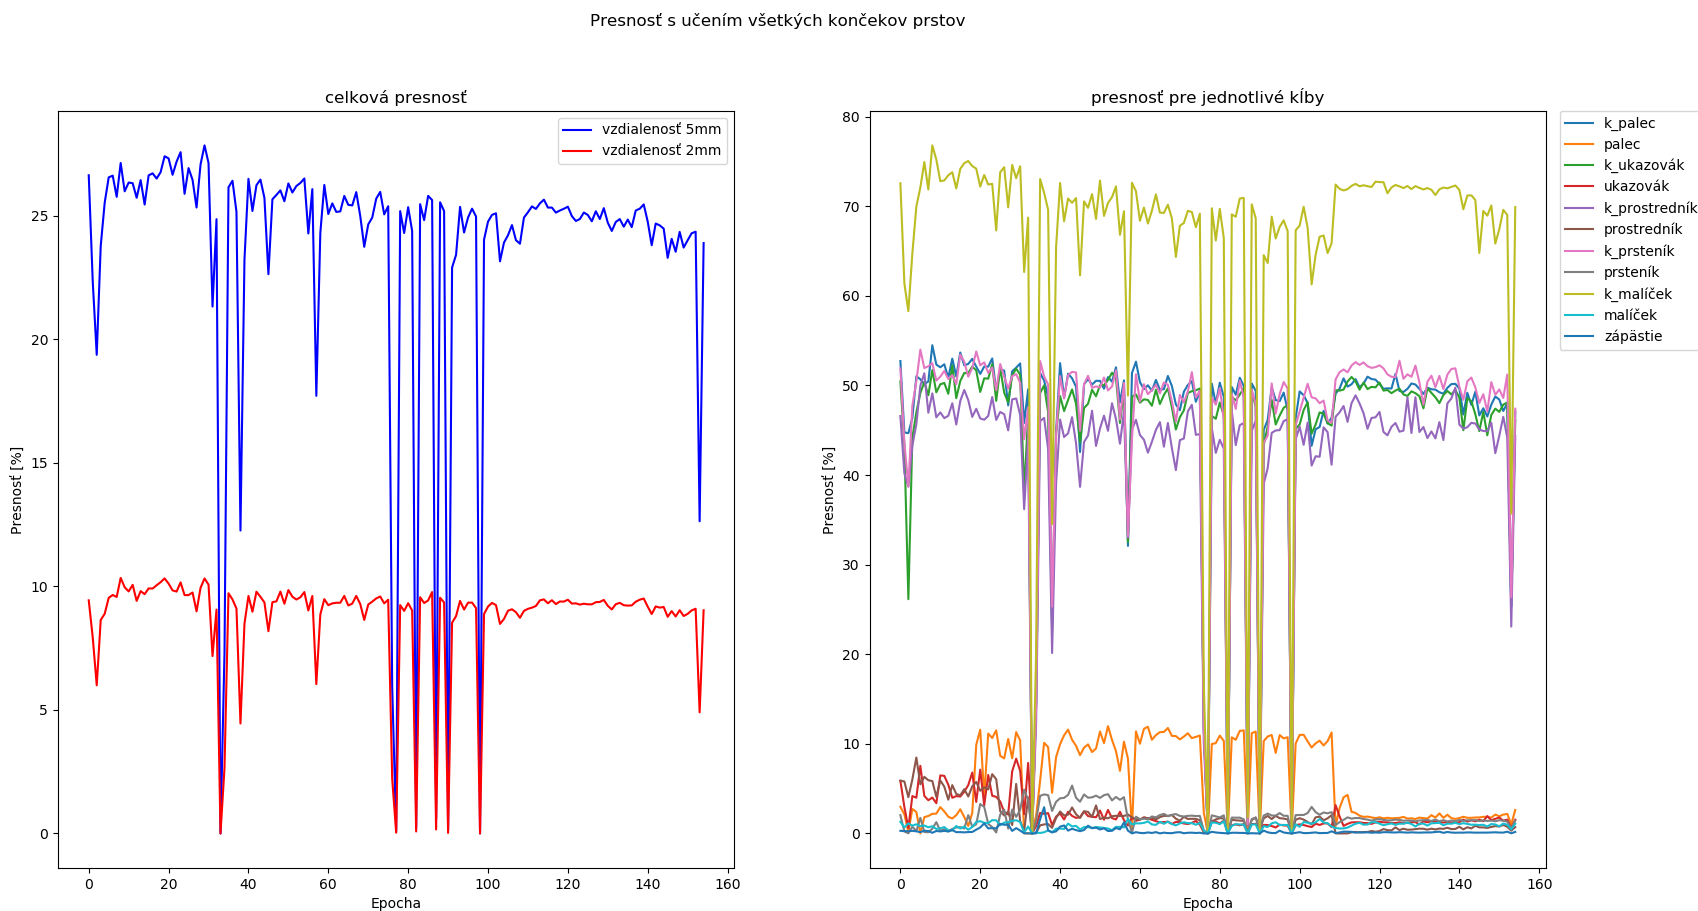
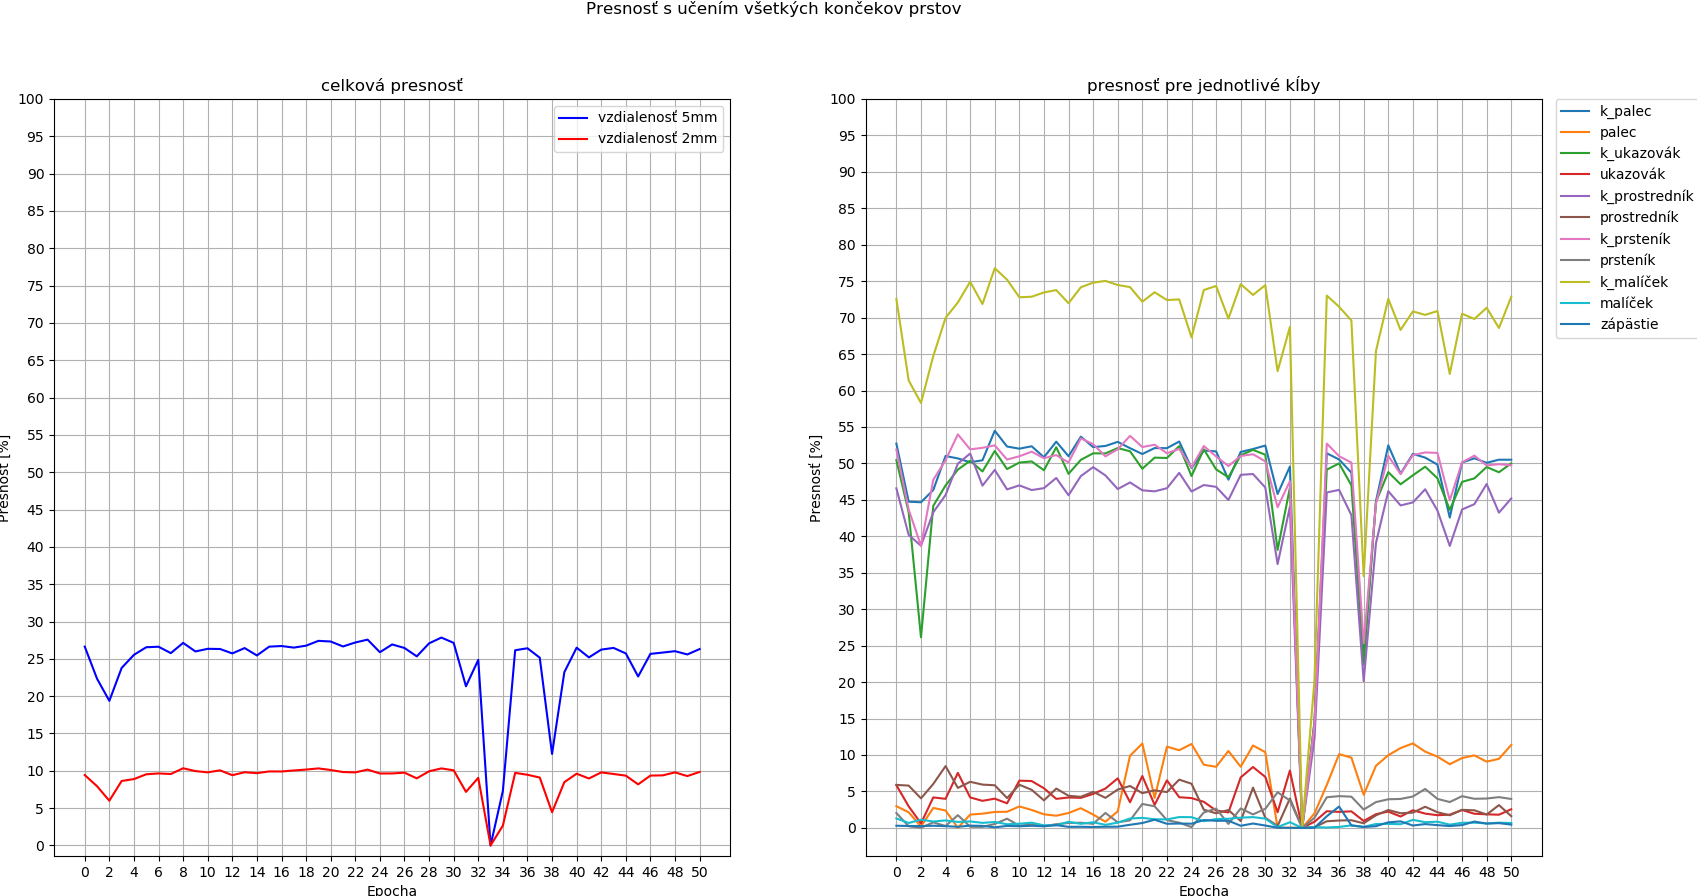
grid in graphs, annotator shape verified save

diff --git a/codes/val_graph_generator/val_reader.py b/codes/val_graph_generator/val_reader.py
@@ -2,15 +2,21 @@ import numpy as np
 import matplotlib.pyplot as plt
 
 def plot_all_acc(title):
+  n_epoch = 221
+  fig = plt.figure()
   plt.subplot(121)
-  plt.plot(np.arange(len(y5)), np.array(y5)*100, 'b', np.arange(len(y2)), np.array(y2)*100, 'r')
+  plt.plot(np.arange(len(y5[:n_epoch])), np.array(y5[:n_epoch])*100, 'b', np.arange(len(y2[:n_epoch])), np.array(y2[:n_epoch])*100, 'r')
   plt.legend(['vzdialenosť 5mm', 'vzdialenosť 2mm'])
   plt.xlabel('Epocha')
   plt.ylabel('Presnosť [%]')
   plt.title('celková presnosť')
-  
+  ax = fig.gca()
+  ax.set_xticks(np.arange(0, len(y5[:n_epoch]), 10))
+  ax.set_yticks(np.arange(0, 101, 5))
+  plt.grid()
+
   plt.subplot(122)
-  plt.plot(np.array(joints_acc))
+  plt.plot(np.array(joints_acc[:n_epoch]))
   print('e{}: {}'.format(np.argmax(joints_acc, axis=0), np.max(joints_acc)))
   print(np.argmax(np.array(joints_acc)[np.argmax(joints_acc, axis=0)]))
   plt.legend(['k_palec', 'palec', 'k_ukazovák', 'ukazovák', 'k_prostredník', 'prostredník', 'k_prsteník', 'prsteník', 'k_malíček', 'malíček', 'zápästie'], 
@@ -24,13 +30,17 @@ def plot_all_acc(title):
   ft = joints[:,:]
   mn = np.mean(ft, axis=1)
   # print('means: {}'.format(mn))
-  print('Min: ', np.max(mn), ' > ', np.max(y2))
+  print('Mean: ', np.max(mn), ' > ', np.max(y2))
   print('In Epoch: ', np.argmax(y2), ' ? ', y5[np.argmax(y2)])
   print('Max: ', np.max(mn), ' == ', np.max(y5))
   print('In Epoch: ', np.argmax(mn), ' == ', np.argmax(y5))
   print('Number of epochs: ', len(mn))
 
   plt.suptitle(title)
+  ax = fig.gca()
+  ax.set_xticks(np.arange(0, len(y5[:n_epoch]), 10))
+  ax.set_yticks(np.arange(0, 101, 5))
+  plt.grid()
   plt.show()
 
 epochs_vals = []
@@ -65,6 +75,7 @@ for i, epoch in enumerate(epochs_vals):
   y5.append(acc_5)
   y2.append(acc_2)
   joints_acc.append(np.array(joint_arr)*100)
-  if epoch_idx == '250':
-    break
+  # if epoch_idx == '50':
+  #   break
+# plot_all_acc('Presnosť s učením všetkých kĺbov')
 plot_all_acc('Presnosť s učením všetkých klbov na vlasnom datasete')

diff --git a/codes/annotator/annotator.py b/codes/annotator/annotator.py
@@ -9,7 +9,8 @@ from scipy.io import savemat, loadmat
 
 my = 0
 # path_ext = "C:\\Users\\TBordac\\Documents\\Workspace\\git\\rosbag_reader\\igor4r.bag"
-path_ext = "C:\\Users\\TBordac\\Documents\\Workspace\\git\\rosbag_reader\\igor2r.bag"
+train = "C:\\Users\\TBordac\\Documents\\Workspace\\git\\rosbag_reader\\igor2r.bag"
+path_ext = "C:\\Users\\TBordac\\Documents\\Workspace\\FMFI\\DiplomovaPracaBackup\\codes\\rosbag_reader\\test_bag\\igor2l.bag"
 # path_ext = "C:\\Users\\TBordac\\Documents\\Workspace\\git\\rosbag_reader\\viktor2l.bag"
 # path_ext = "C:\\Users\\TBordac\\Documents\\Workspace\\git\\rosbag_reader\\viktor4r.bag"
 # path_ext = "C:\\Users\\TBordac\\Documents\\Workspace\\git\\rosbag_reader\\rebecca2l.bag"
@@ -32,8 +33,8 @@ jnt = []
 batch = []
 annot = []
 
-if path.exists('joint_data.mat'):
-    annot_data = loadmat('joint_data.mat')
+if path.exists('test_joint_data.mat'):
+    annot_data = loadmat('test_joint_data.mat')
     data = annot_data['joint_uvd']
     if data.shape[0] == 1 and data.shape[1] > 0:
         for i in range(data.shape[1]):
@@ -101,14 +102,19 @@ for i in range(0, video.shape[0], 5):
     # if pressed escape exit program
     if key == 27:
         annot = [np.array(batch)]
-        savemat('joint_data.mat', {'joint_uvd': np.array(annot)})
+        savemat('test_joint_data.mat', {'joint_uvd': np.array(annot)})
         cv2.destroyAllWindows()
         break
     elif key == ord('q'):
         cv2.destroyAllWindows()
         break
     elif key == ord('a'):
-        batch.append(np.array(jnt))
+        verify_batch = batch[:]
+        verify_batch.append(np.array(jnt))
+        if len(np.array(verify_batch).shape) == 3:
+            batch.append(np.array(jnt))
+        else:
+            print('Couldn`t add new annotations. Shape cann`t be {}'.format(np.array(verify_batch).shape))
         im = Image.fromarray(image)
-        im.save("train/rgb_1_"+ str(len(batch)).zfill(7) +'.jpg')
+        im.save("test/rgb_1_"+ str(len(batch)).zfill(7) +'.jpg')
         jnt = []

diff --git a/codes/rosbag_reader/eval.py b/codes/rosbag_reader/eval.py
@@ -91,9 +91,13 @@ def run_eval(model_json, model_weights, epoch, dataset_path):
         cv2.line(plot_image, start_point, end_point, color, thickness)
         cv2.line(color_image_BGR, start_point, end_point, color, thickness)
 
-      ax.view_init(70, 90)
+      ax.view_init(180, 90)
       ax.set_xlim(ax.get_xlim()[::-1])        # invert the axis
       ax.set_zlim(ax.get_zlim()[::-1])        # invert the axis
+
+      ax.set_xlabel("x [px]")
+      ax.set_ylabel("y [px]")
+      ax.set_zlabel("z [m]")
 
       plt.subplot(1,2,1)
       plt.imshow(plot_image/255)
@@ -115,5 +119,5 @@ def run_eval(model_json, model_weights, epoch, dataset_path):
 if __name__ == "__main__":
   pth = 'C:\\Users\\TBordac\\Documents\\Workspace\\git\\PNNPPV_project\\trained_models\\my_final\\'
   # dataset_path = "test_bag\\viktor2r.bag"
-  dataset_path = "test_bag\\viktor4l.bag"
+  dataset_path = "C:\\Users\\TBordac\\Documents\\Workspace\\FMFI\\DiplomovaPracaBackup\\codes\\rosbag_reader\\test_bag\\rebecca2r.bag"
   run_eval(pth+"net_arch.json", pth+"weights_epoch{}.h5".format(219), 219, dataset_path)
